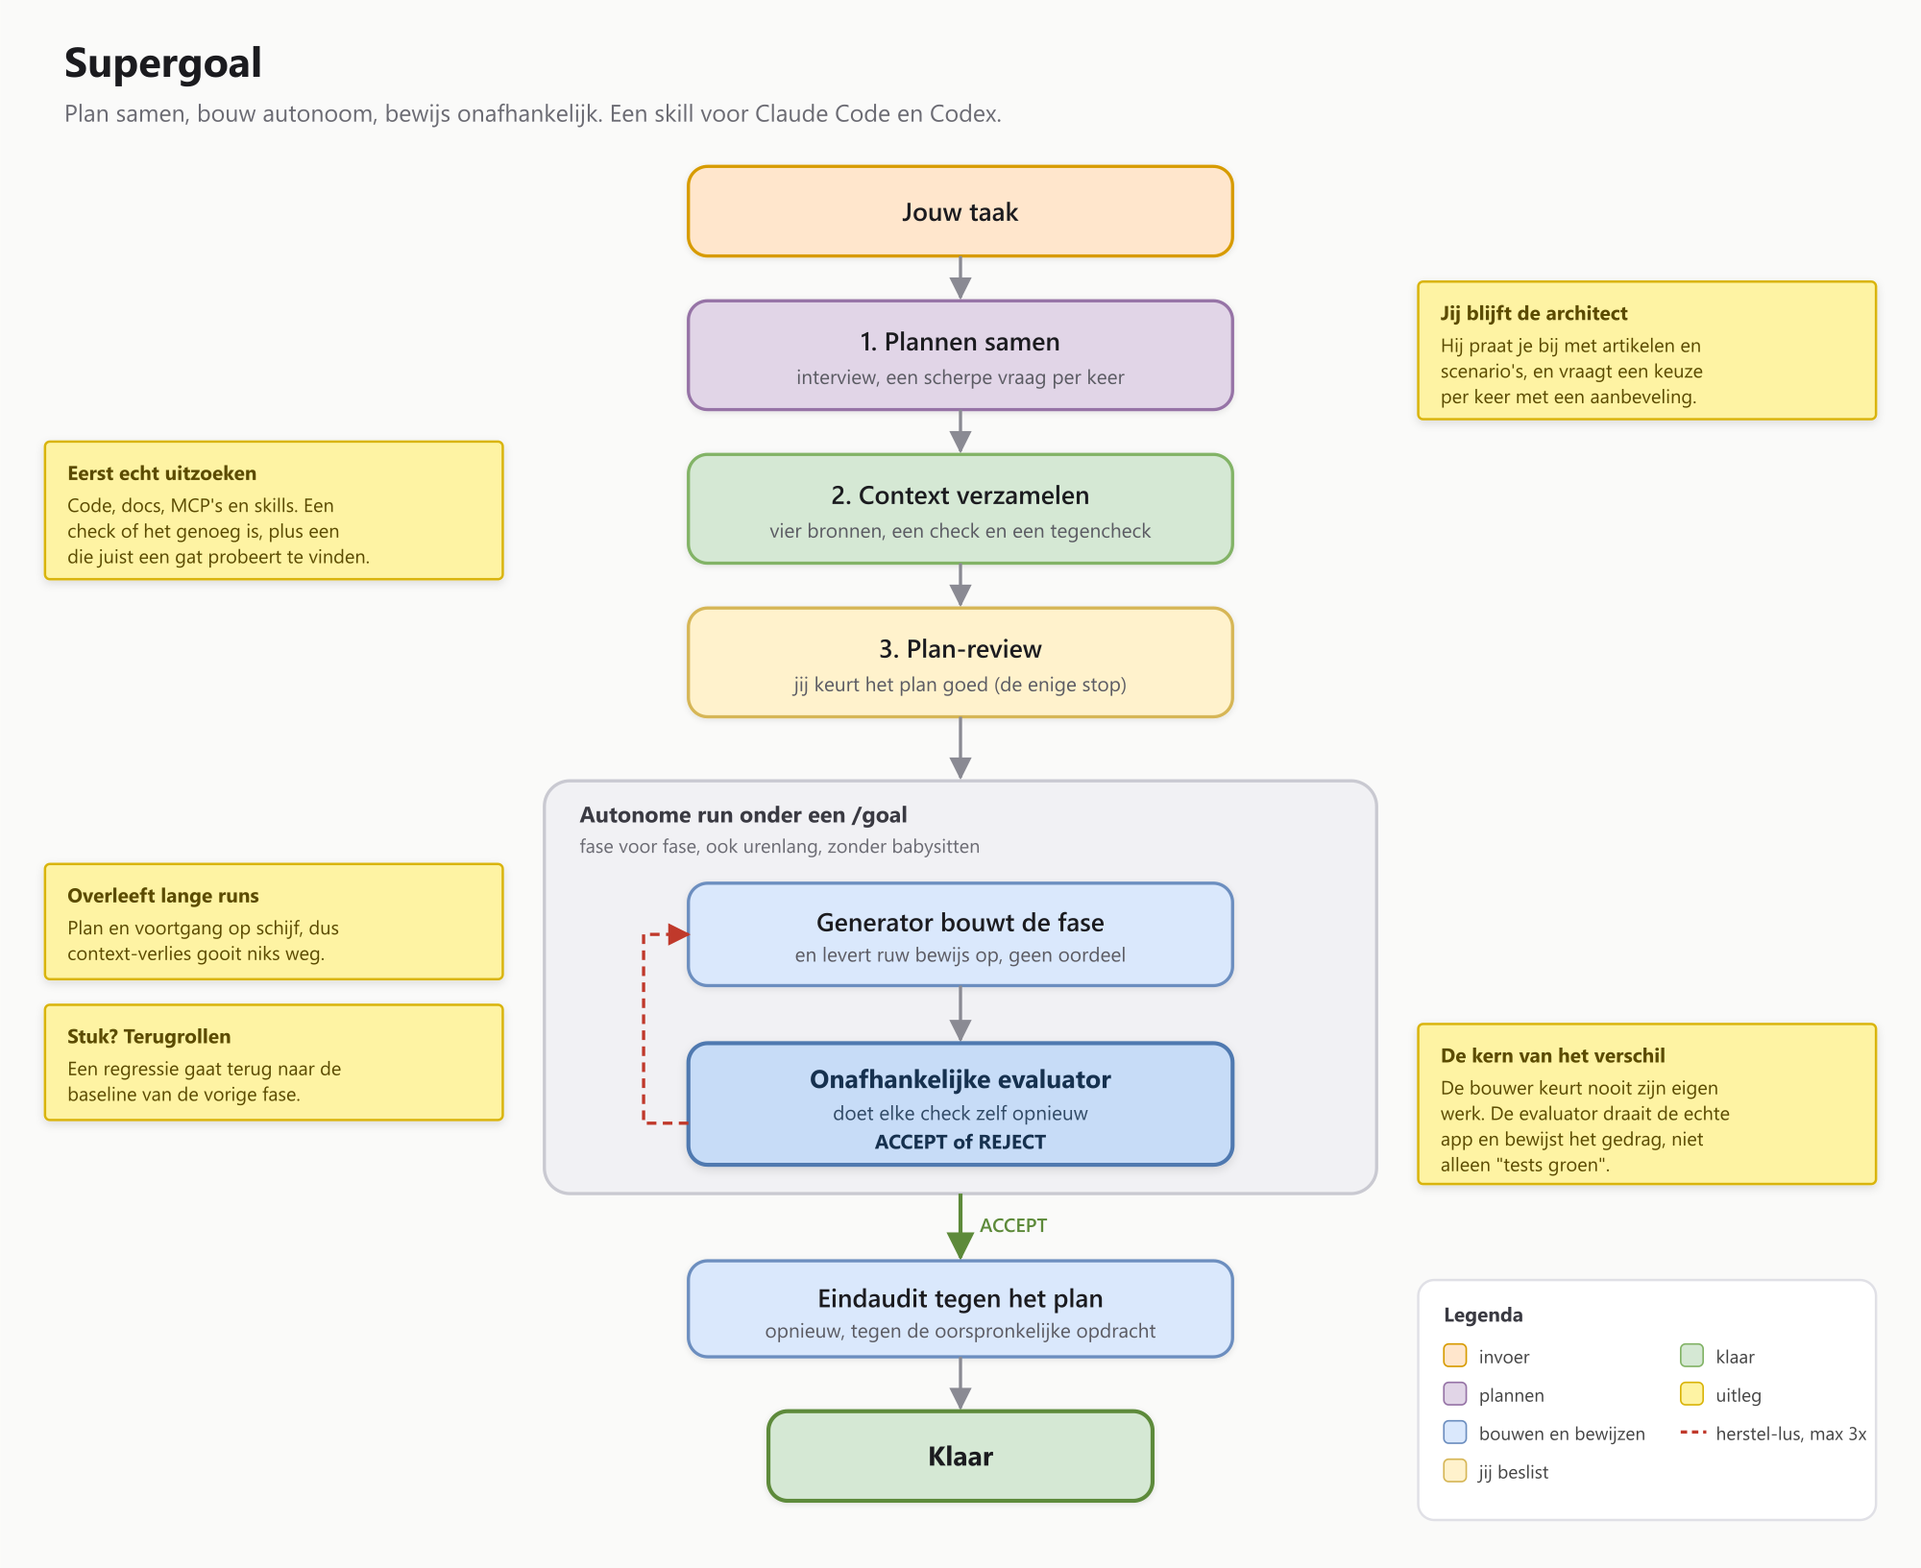
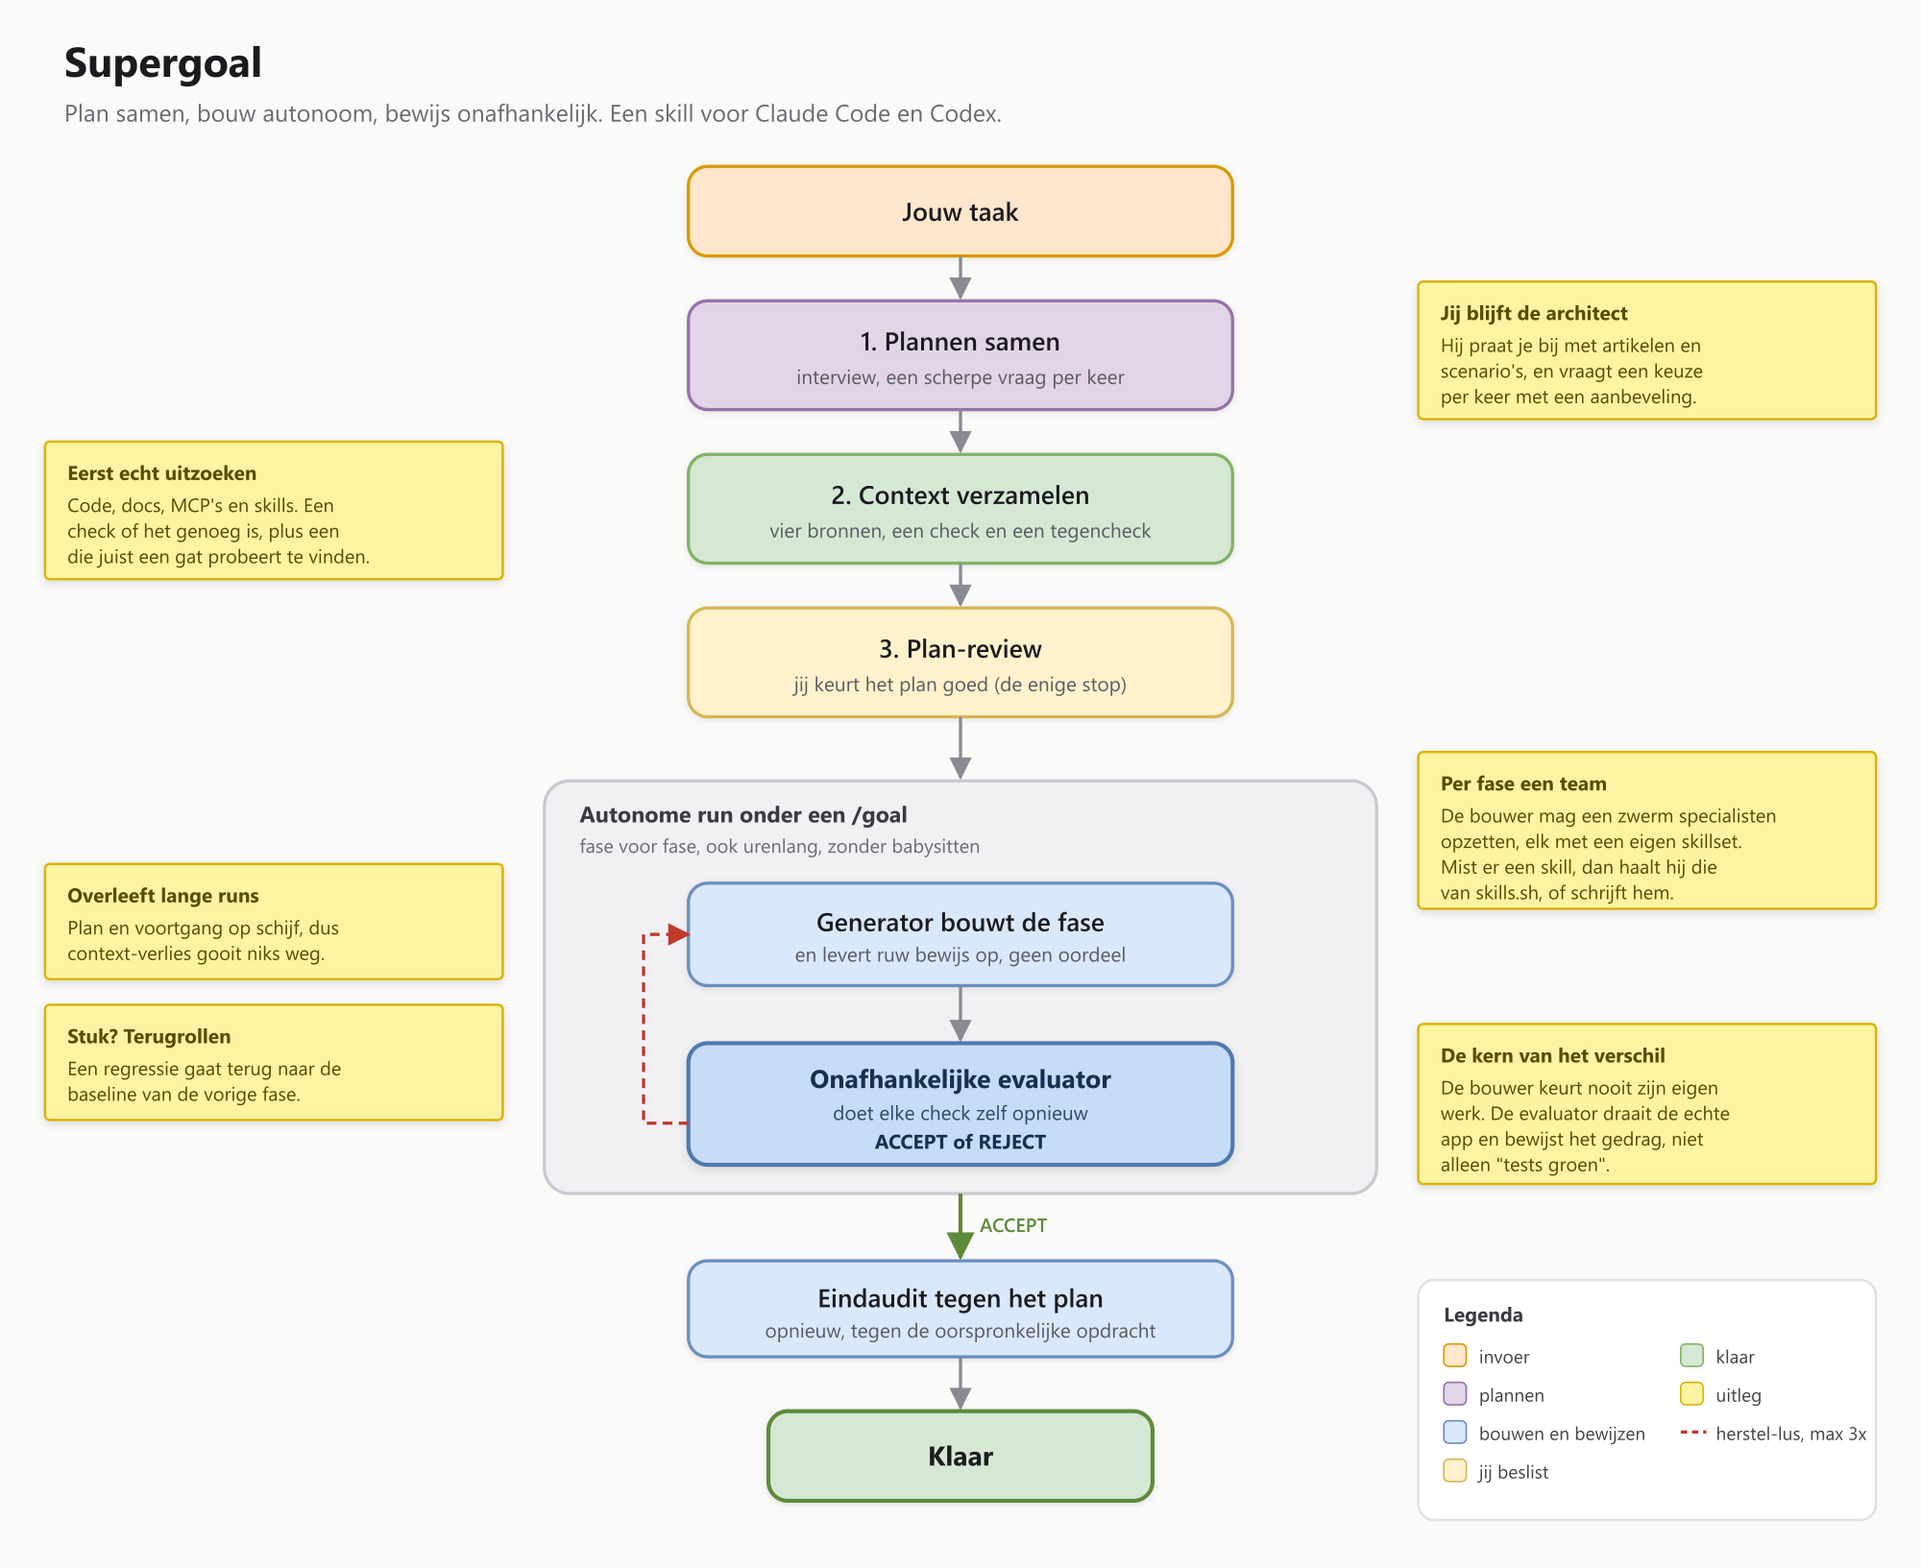
feat: per-phase specialist teams (swarms) with dynamic skill loading via skill-finder + skills.sh

Changed region(s): [[0.713, 0.4685, 0.992, 0.5934]]

diff --git a/SKILL.md b/SKILL.md
@@ -124,6 +124,8 @@ Schrijf het resultaat naar `$SUPERGOAL_ROOT/tools.md`. Detecteer specifiek:
 - **Empirisch gereedschap**: preview MCP, chrome-devtools MCP, een `/e2e` of `/run` skill, of gewoon curl/de shell. Dit bepaalt hoe `empirical` criteria bewezen worden. Noteer per surface-type wat beschikbaar is.
 - **Docs**: Context7, WebSearch, WebFetch. Zo niet aanwezig, val terug op training-cutoff kennis en log dat als aanname.
 - **Project skills**: domein-relevante skills in `$SUPERGOAL_ROOT/applied-skills.md`.
+- **Team-dispatch**: is er een Task/Agent of Workflow tool? Dan kan een fase een team van specialisten parallel draaien (zie de uitvoering). Zo niet, sporen sequentieel.
+- **Skill-bronnen**: is `npx` aanwezig plus de skill-finder skill? Dan los je per spoor ontbrekende skills op: eerst matchen, anders `npx skills add <owner/repo>` van de skills.sh registry, anders zelf een skill schrijven.
 - **Eerdere state**: bestaat `$SUPERGOAL_ROOT/STATE.md` van een vorige run, hervat in plaats van opnieuw te beginnen.
 
 ### Hervat-detectie
@@ -276,6 +278,8 @@ Acceptance criteria: <count>
 Evidence required: <list>
 Depends on phases: <list or "none">
 Validation classes: tool-output | deliverable | empirical | llm-judge | self-consistency
+Team: <sporen + specialisten, of "solo">
+Skills needed: <skills per spoor, of "none">
 Rollback target: phase <N-k> baseline ref (see phase-N-rationale.md)
 
 [... volledige werkbeschrijving, geklasseerde criteria, vereist bewijs ...]
@@ -379,7 +383,7 @@ Na "Start now" en voor het `/goal` blok: draai de mandatory commands (ontdubbeld
 Slash commands vuren alleen vanuit gebruikersinput, dus dit is een eerlijke een-plak overdracht. Na "Start now":
 
 1. Update `STATE.md`: `Status: READY_TO_DISPATCH`, `Current phase: 1`, en leg `Baseline ref:` vast op `git rev-parse HEAD 2>/dev/null || echo "no-git"`. Initialiseer `Phase baselines:` (leeg); de generator voegt per fasegrens een entry toe (`phase <N> pre: <ref>`), de rollback-ankers waar `phase-N-rationale.md` naar verwijst.
-2. Kopieer `$SUPERGOAL_DIR/templates/PROTOCOL.md` naar `.supergoal/PROTOCOL.md`, `$SUPERGOAL_DIR/prompts/phase-judge.md` naar `.supergoal/evaluator.md` (de evaluator-instructie die de subagent of fallback-pass leest), en `$SUPERGOAL_DIR/scripts/repo-state.sh` naar `.supergoal/repo-state.sh`.
+2. Kopieer `$SUPERGOAL_DIR/templates/PROTOCOL.md` naar `.supergoal/PROTOCOL.md`, `$SUPERGOAL_DIR/prompts/phase-judge.md` naar `.supergoal/evaluator.md` (de evaluator-instructie die de subagent of fallback-pass leest), `$SUPERGOAL_DIR/prompts/phase-team.md` naar `.supergoal/phase-team.md` (de team-instructie voor de generator), en `$SUPERGOAL_DIR/scripts/repo-state.sh` naar `.supergoal/repo-state.sh`.
 3. Verifieer elke `phase-N.md` en draai `validate-phase.sh` erop.
 4. Print het kant-en-klare `/goal` commando:
 
@@ -403,10 +407,22 @@ Dit is de loop die binnen de `/goal` sessie draait, herhaald tot `SUPERGOAL_RUN_
 
 1. Lees `STATE.md` -> huidige fase N. Lees `phase-N.md`. Snapshot de pre-fase baseline naar `STATE.md` `Phase baselines:`.
 2. Print `SUPERGOAL_PHASE_START`.
-3. **Generator**: doe het werk, draai mandatory commands, stuur het artefact aan voor de empirische criteria. Print `SUPERGOAL_PHASE_EVIDENCE`: ruwe command-output + exit codes, gewijzigde bestanden, en de observaties (screenshot-pad, HTTP-respons, CLI-output). Geen oordeel.
+3. **Generator (solo of als team)**: heeft de fase losse sporen of vraagt ze vaardigheden die je niet paraat hebt, tuig dan een team van specialisten op (zie `.supergoal/phase-team.md`): knip de fase in sporen, los per spoor de skill op met de skill-finder-passes (installed matchen; anders zoeken en `npx skills add <owner/repo>` van skills.sh; anders zelf een skill schrijven), en dispatch de specialisten parallel. Print eerst `SUPERGOAL_PHASE_TEAM` (sporen plus opgeloste skills). Doe dan het werk, draai mandatory commands, stuur het artefact aan voor de empirische criteria, en print `SUPERGOAL_PHASE_EVIDENCE`: ruwe command-output + exit codes, gewijzigde bestanden, en de observaties. Het team velt geen oordeel; dat blijft de evaluator.
 4. **Evaluator** (subagent met verse context, of fallback-pass): leest `phase-N.md` en `.supergoal/evaluator.md`, niet het generator-oordeel. Herdraait elke check per klasse: commands opnieuw, `repo-state.sh` voor deliverables, het artefact zelf aansturen voor `empirical`, blind oordeel voor `llm-judge`, her-grep voor `self-consistency`. Print `SUPERGOAL_EVAL_VERDICT phase=N` met per-criterium pass/fail + bewijs, en ACCEPT of REJECT.
 5. **Gate**: REJECT -> 3-strike recovery (zie onder). ACCEPT -> memory writeback check, dan `SUPERGOAL_PHASE_DONE`, update `STATE.md`.
 6. User-interrupt check op de fasegrens. N < total: volgende fase. N == total: final audit, dan pas `SUPERGOAL_RUN_COMPLETE`.
+
+### Per-fase team (swarm) en dynamische skills
+
+De generator hoeft geen enkele agent te zijn. Per fase mag je er zoveel kracht op zetten als de taak verdient: een team van specialisten, elk met een eigen spoor en een eigen skillset, en bij grote fasen meerdere teams naast elkaar. Volledige instructie in `.supergoal/phase-team.md`.
+
+Skills los je dynamisch op met de skill-finder-logica:
+
+1. Match eerst de geinstalleerde skills op wat het spoor nodig heeft.
+2. Past er niks, zoek een bewezen aanpak (de skills.sh registry, `gh search`, registries, docs) en installeer met `npx skills add <owner/repo>`.
+3. Keert het terug en dekt niks het, schrijf dan een nieuwe, generieke skill in de skill-finder-structuur, zodat een volgende run hem matcht in pass 1.
+
+Dit verandert niks aan de gate: het team is de generator, en de onafhankelijke evaluator herdraait daarna alles. Meer agents is meer bouwkracht, geen extra vertrouwen vooraf.
 
 ### Failure recovery (3-strike, op REJECT)
 
@@ -454,6 +470,7 @@ Waard om op te slaan: een API-eigenaardigheid die niet in de docs stond, een bev
 - **Plan door te grillen.** Een vraag per keer met aanbeveling, codebase-eerst, tot elke materiele beslissing is opgelost. Een plan op gedeeld begrip hoeft de evaluator later niet af te keuren.
 - **Maak de gebruiker architect, geen stempelaar.** Bij een zware keuze stuur je bronnen en scenario's mee, zodat hij snel het onderwerp snapt en op inhoud beslist in plaats van je voorstel af te stempelen.
 - **Route op rol, niet op kosten.** Goedkope modellen voor het mechanische volume, een sterk model voor de evaluator, zodat een lange run de limiet overleeft en de judge scherp blijft.
+- **Per fase zoveel kracht als nodig.** Een team van specialisten per fase, elk met een eigen skillset, en ontbrekende skills haal je erbij (skills.sh) of schrijf je zelf. De evaluator blijft er onafhankelijk overheen, dus meer agents kopen geen vertrouwen.
 - **Polish & Harden is verplicht.** Zo wordt "elk aspect is perfect" afgedwongen.
 
 ---
@@ -485,6 +502,7 @@ Waard om op te slaan: een API-eigenaardigheid die niet in de docs stond, een bev
 - `prompts/sufficient-context-judge.md`: de eerste context-judge (Stage 2c)
 - `prompts/adversarial-prober.md`: de tweede context-judge (Stage 2c-bis)
 - `prompts/phase-judge.md`: de onafhankelijke evaluator, gekopieerd naar `.supergoal/evaluator.md` bij dispatch
+- `prompts/phase-team.md`: de per-fase team-orchestratie (swarm) plus dynamische skill-resolutie, gekopieerd naar `.supergoal/phase-team.md` bij dispatch
 
 ## Templates
 

diff --git a/prompts/phase-team.md b/prompts/phase-team.md
@@ -1,0 +1,76 @@
+# Phase team prompt (per-fase swarm, onderdeel van de generator)
+
+Bij dispatch wordt dit bestand gekopieerd naar `.supergoal/phase-team.md`. De generator
+leest het wanneer een fase meer kracht verdient dan een enkele agent.
+
+Je bent de **lead** (de "bedrijfseigenaar") van een fase. Je mag de fase bouwen met een
+team van specialisten in plaats van alleen. Het team is en blijft de generator: het levert
+werk plus ruw bewijs op, het velt **nooit** een eigen oordeel over slagen of falen. Daarna
+herdraait de onafhankelijke evaluator alles. Het team is voor doorzet en gespecialiseerde
+vaardigheid, niet voor goedkeuring.
+
+## Wanneer een team, wanneer solo
+
+- **Solo**: de fase is een coherente eenheid die een agent goed alleen afmaakt.
+- **Team**: de fase heeft losse sporen die parallel kunnen (frontend, backend, tests, data,
+  docs), of vraagt vaardigheden die je niet paraat hebt. Dan tuig je een team op, zo zwaar
+  als de taak verdient. Grote fasen kunnen meerdere teams naast elkaar draaien.
+
+## Stap 1: knip de fase in sporen
+
+Elk spoor is het werk van een specialist: een duidelijke deelopgave, een eigen deliverable,
+en welk deel van de acceptatiecriteria het dekt. Sporen overlappen niet in bestanden waar
+mogelijk, zodat ze veilig parallel kunnen.
+
+## Stap 2: los de skills op (skill-finder-logica)
+
+Per spoor bepaal je welke vaardigheid de specialist nodig heeft. Volg de drie passes van de
+skill-finder skill:
+
+1. **Match installed skills eerst.** Inventariseer de beschikbare skills en kies de een of
+   twee die het spoor het beste dekken. Past er een, gebruik die.
+2. **Zoek en hergebruik (alleen als niks past).** Zoek een bewezen aanpak voor je zelf gaat
+   bouwen: de skills.sh registry (Vercel), `gh search repos` / `gh search code`, npm/PyPI,
+   en de primaire docs. Installeer een passende skill met `npx skills add <owner/repo>`.
+3. **Schrijf een nieuwe skill (alleen als het terugkeert en niks dekt).** Volg de
+   skill-finder structuur (`SKILL.md` < 100 regels, scherpe description met triggers, generiek,
+   geen persoonlijke naam). Bewaar hem zodat een volgende run hem matcht in pass 1.
+
+Log per benodigde skill een regel: `installed:<naam>` | `acquired:<owner/repo via skills.sh>`
+| `written:<naam>` | `none:<reden>`. Een spoor zonder oplosbare skill val je terug op een
+generalist, en je noteert dat.
+
+## Stap 3: dispatch de specialisten
+
+Met een Task- of Workflow-tool: spawn een specialist per spoor, parallel. Geef elk mee:
+zijn spoor en deliverable, de skill(s) die hij gebruikt, het deel van de acceptatiecriteria
+dat hij dekt, en de opdracht om werk plus ruw bewijs terug te geven (commando-output,
+gewijzigde bestanden, observaties), zonder eigen pass/fail-oordeel.
+
+Zonder Task/Workflow (bijv. Codex): draai de sporen na elkaar als een enkele bouwer, met
+dezelfde skill-resolutie. Minder parallel, zelfde resultaat.
+
+## Stap 4: voeg samen
+
+De lead voegt de sporen samen tot de deliverable van de fase en tot een enkel
+`SUPERGOAL_PHASE_EVIDENCE` blok. Botsen twee sporen, dan los je dat hier op voor je doorgeeft.
+De evaluator ziet een fase, niet een verzameling losse agents.
+
+## Output: het team-blok
+
+Print voor het bouwen:
+
+```
+SUPERGOAL_PHASE_TEAM phase=<N>
+Tracks:
+- <spoor 1>: <deliverable> | skill: <installed|acquired|written|none + naam/bron> | criteria: <welke>
+- <spoor 2>: ...
+Teams parallel: <1 of meer>
+Fallback: <subagents | sequentieel (geen Task-tool)>
+```
+
+## Grens
+
+Het team verandert niks aan de gate. Wie bouwt keurt nooit zichzelf, ook een team niet. Na
+`SUPERGOAL_PHASE_EVIDENCE` herdraait de onafhankelijke evaluator elke check op het draaiende
+artefact. Meer agents betekent meer bouwkracht, niet meer vertrouwen vooraf.

diff --git a/README.md b/README.md
@@ -21,6 +21,7 @@ De grootste faalmodus van autonome agents is dat ze zichzelf "klaar" verklaren t
 - **Bewijs is empirisch.** De evaluator draait de echte app en kijkt of het gedrag klopt, niet alleen of de tests groen zijn.
 - **Gebouwd voor lange runs.** Plan en voortgang staan op schijf en overleven context-verlies. Een regressie rolt terug naar de baseline van de vorige fase. Aan het eind draait een audit tegen het oorspronkelijke plan.
 - **Plannen is een gesprek.** In de planfase interviewt de skill je als een architect: een scherpe vraag per keer, met een aanbeveling, plus artikelen en scenario's zodat je op inhoud beslist.
+- **Per fase een team.** De generator kan per fase een zwerm specialisten opzetten, elk met een eigen skillset, en ontbrekende skills bijhalen via de skills.sh registry of zelf schrijven. De onafhankelijke evaluator blijft er overheen, dus de bouwkracht groeit zonder dat het vertrouwen daalt.
 
 ## Hoe het werkt
 
@@ -29,7 +30,7 @@ De grootste faalmodus van autonome agents is dat ze zichzelf "klaar" verklaren t
 3. **Context verzamelen.** Info uit vier bronnen (code, docs, MCP's, skills), met een check of het genoeg is plus een tweede check die juist een gat zoekt.
 4. **Plan opdelen.** Zoveel fasen als de taak nodig heeft, elk op zichzelf te controleren, met empirisch bewijs waar gedrag ontstaat.
 5. **Plan-review.** Je krijgt een samenvatting plus een losse HTML-pagina met de fasen, de keuzes, de bronnen en de risico's. Jij keurt goed. Dit is de enige stop.
-6. **Autonome run.** Een ronde per fase: de generator bouwt, de onafhankelijke evaluator bewijst (ACCEPT of REJECT). REJECT start een herstel van maximaal drie pogingen.
+6. **Autonome run.** Een ronde per fase: de generator bouwt, de onafhankelijke evaluator bewijst (ACCEPT of REJECT). REJECT start een herstel van maximaal drie pogingen. Per fase kan de generator een team van specialisten opzetten en ontbrekende skills bijladen (via skills.sh of zelf geschreven); de evaluator blijft er onafhankelijk overheen.
 7. **Eindaudit.** Na de laatste fase controleert de evaluator het geheel nog eens tegen het oorspronkelijke plan, voordat de run als klaar geldt.
 
 Twee keer is jouw input nodig: de planfase en de plan-review. Daartussen en erna draait het zelf.
@@ -64,7 +65,7 @@ Claude Code en Codex. Waar geen subagents beschikbaar zijn, draait de evaluator 
 
 ```
 SKILL.md                de skill zelf
-prompts/                de evaluator en de drie context-checks
+prompts/                de evaluator, het per-fase team, en de drie context-checks
 references/             planning, fase-opdeling, /goal-formaat, repo-vergelijking
 scripts/                recon en de working-tree vergelijking
 templates/              ROADMAP, STATE, PROTOCOL, fase-spec, review.html

diff --git a/templates/PROTOCOL.md b/templates/PROTOCOL.md
@@ -18,12 +18,17 @@ Herhaal tot `SUPERGOAL_RUN_COMPLETE` is geprint:
    Dit is het rollback-anker waar `phase-N-rationale.md` naar verwijst.
 4. Print `SUPERGOAL_PHASE_START` met de spec-metadata (fasenummer, naam, taak, mandatory
    commands, criteria-telling, vereist bewijs, afhankelijkheden, validatieklassen).
-5. **Generator.** Doe het werk uit de spec. Draai de mandatory commands. Voor elk
-   `[empirical]` criterium: stuur het draaiende artefact aan en leg de observatie vast
-   (screenshot-pad, HTTP-respons, CLI-output). Print `SUPERGOAL_PHASE_EVIDENCE`: ruwe
-   command-output (laatste ~10 regels + exit code), gewijzigde bestanden, en de
-   artefact-observaties. **Geen pass/fail-oordeel.** Je rapporteert wat je deed en zag,
-   niet of het slaagde.
+5. **Generator (solo of als team).** Heeft de fase losse sporen of vraagt ze vaardigheden
+   die je niet paraat hebt, tuig dan een team op volgens `.supergoal/phase-team.md`: knip de
+   fase in sporen, los per spoor de skill op (match installed; anders `npx skills add
+   <owner/repo>` van skills.sh; anders schrijf een skill), en dispatch de specialisten
+   parallel. Print eerst `SUPERGOAL_PHASE_TEAM` (sporen, opgeloste skills, fallback). Doe dan
+   het werk uit de spec, draai de mandatory commands, en stuur voor elk `[empirical]`
+   criterium het draaiende artefact aan en leg de observatie vast (screenshot-pad,
+   HTTP-respons, CLI-output). Print `SUPERGOAL_PHASE_EVIDENCE`: ruwe command-output
+   (laatste ~10 regels + exit code), gewijzigde bestanden, en de artefact-observaties.
+   **Geen pass/fail-oordeel**, ook het team niet. Je rapporteert wat je deed en zag, niet
+   of het slaagde.
 6. **Evaluator.** Draai de onafhankelijke evaluator uit `.supergoal/evaluator.md`.
    - **Claude Code** (Task/Agent tool aanwezig): spawn de evaluator als subagent met een
      verse context. Geef hem het pad naar `phase-N.md`, `evaluator.md`, de `Baseline ref`,
@@ -152,6 +157,7 @@ Zie de `Memory writeback` sectie in SKILL.md. Kort:
 
 Zie `references/goal-format.md` voor het exacte formaat van:
 - `SUPERGOAL_PHASE_START`
+- `SUPERGOAL_PHASE_TEAM` (generator, alleen als de fase een team draait)
 - `SUPERGOAL_PHASE_EVIDENCE` (generator, ruw, geen oordeel)
 - `SUPERGOAL_EVAL_VERDICT` (evaluator, ACCEPT/REJECT)
 - `MEMORY_SAVED`
